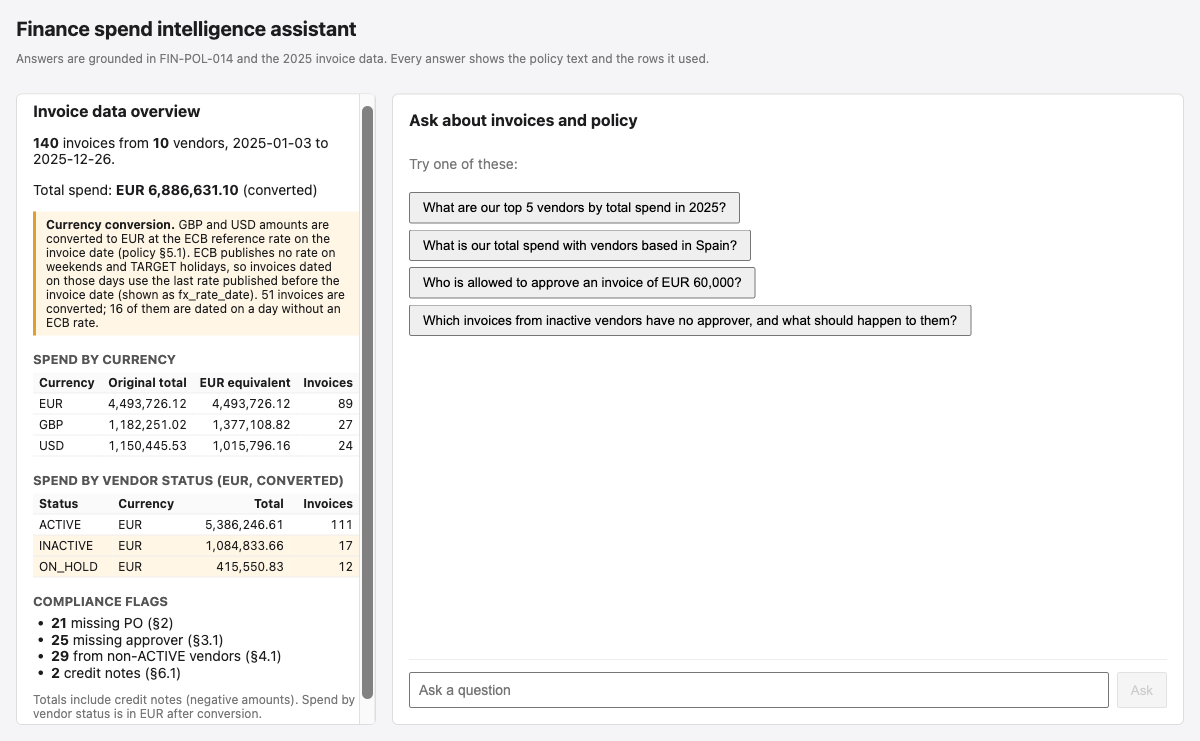
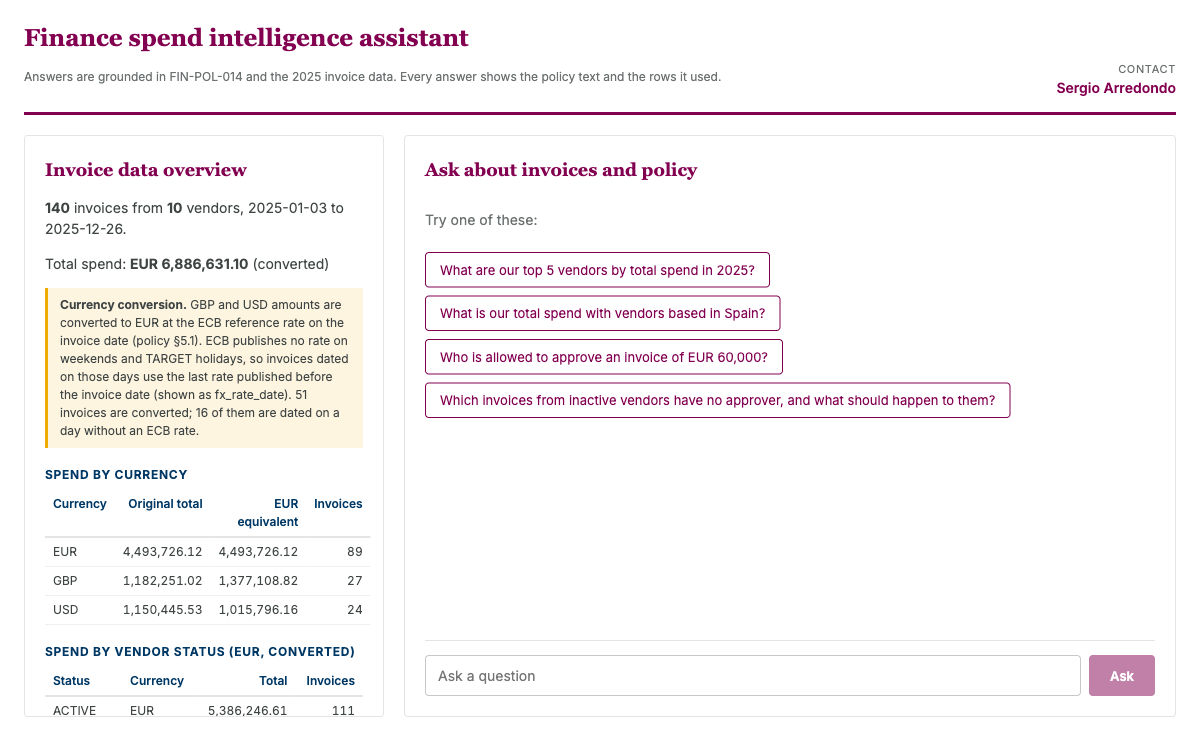
Switch default model to Claude Sonnet 5.5 and apply AstraZeneca styling
- Default BEDROCK_MODEL_ID is now us.anthropic.claude-sonnet-5-5 (llm.py, .env.example, README, CLAUDE.md)
- Frontend uses the Mulberry palette, Inter body text and Lexia headings on a white layout
- Header lists Sergio Arredondo as the contact
- Refresh the README screenshot
- README time section includes 30 minutes reviewing the raw data and policy

Changed region(s): [[0.0, 0.031, 0.9867, 0.9933], [0.8942, 0.8691, 0.9867, 0.9622]]

diff --git a/frontend/src/index.css b/frontend/src/index.css
@@ -1,54 +1,80 @@
-* { box-sizing: border-box; }
-body { margin: 0; font-family: system-ui, sans-serif; font-size: 14px; color: #1d1d1f; background: #f5f5f7; }
-h1 { font-size: 20px; margin: 0 0 4px; }
-h2 { font-size: 16px; margin: 0 0 12px; }
-h3 { font-size: 13px; margin: 16px 0 6px; text-transform: uppercase; color: #555; }
-h4 { font-size: 12px; margin: 14px 0 6px; text-transform: uppercase; color: #555; }
+:root {
+  --mulberry: #830051;
+  --mulberry-dark: #5f003b;
+  --mulberry-tint: #f7ebf2;
+  --navy: #003865;
+  --graphite: #3f4444;
+  --lime: #c4d600;
+  --gold: #f0ab00;
+  --gold-tint: #fdf5e0;
+  --light-blue-tint: #e9f8fa;
+  --error: #b3261e;
+  --border: #e4e4e4;
+  --rule: #f0f0f0;
+  --font-body: 'Inter', Arial, sans-serif;
+  --font-heading: 'Lexia', Georgia, serif;
+}
 
-.layout { display: grid; grid-template-columns: 360px 1fr; grid-template-rows: auto 1fr; gap: 16px; padding: 16px; height: 100vh; }
-.layout header { grid-column: 1 / -1; }
-.panel { background: white; border: 1px solid #ddd; border-radius: 6px; padding: 16px; overflow: auto; }
+* { box-sizing: border-box; }
+body { margin: 0; font-family: var(--font-body); font-size: 14px; line-height: 1.5; color: var(--graphite); background: #fff; }
+h1, h2 { font-family: var(--font-heading); color: var(--mulberry); font-weight: 700; }
+h1 { font-size: 24px; margin: 0 0 4px; }
+h2 { font-size: 18px; margin: 0 0 12px; }
+h3 { font-size: 12px; margin: 18px 0 6px; text-transform: uppercase; letter-spacing: 0.06em; color: var(--navy); }
+h4 { font-size: 11px; margin: 14px 0 6px; text-transform: uppercase; letter-spacing: 0.06em; color: var(--navy); }
+
+.layout { display: grid; grid-template-columns: 360px 1fr; grid-template-rows: auto 1fr; gap: 20px; padding: 0 24px 24px; height: 100vh; }
+.layout header { grid-column: 1 / -1; display: flex; justify-content: space-between; align-items: flex-end; gap: 24px; padding: 20px 0 14px; border-bottom: 3px solid var(--mulberry); }
+.contact { text-align: right; font-size: 12px; white-space: nowrap; }
+.contact-label { display: block; text-transform: uppercase; letter-spacing: 0.06em; font-size: 11px; color: #6b7070; }
+.contact-name { font-weight: 600; color: var(--mulberry); font-size: 14px; }
+.panel { background: #fff; border: 1px solid var(--border); border-radius: 4px; padding: 20px; overflow: auto; }
 .chat { display: flex; flex-direction: column; overflow: hidden; }
 .messages { flex: 1; overflow: auto; }
 
-.muted { color: #777; }
+.muted { color: #6b7070; }
 .small { font-size: 12px; }
-.error { color: #a00; }
+.error { color: var(--error); }
 table { border-collapse: collapse; width: 100%; font-size: 12px; }
-th, td { text-align: left; padding: 3px 6px; border-bottom: 1px solid #eee; vertical-align: top; }
-th { background: #fafafa; }
+th, td { text-align: left; padding: 5px 8px; border-bottom: 1px solid var(--rule); vertical-align: top; }
+th { background: #fff; color: var(--navy); font-weight: 600; border-bottom: 2px solid var(--border); }
 .num { text-align: right; font-variant-numeric: tabular-nums; }
-tr.flag td { background: #fff6e5; }
-tr.credit td { background: #eef5ff; }
-.disclaimer { background: #fff6e5; border-left: 3px solid #e0a030; padding: 6px 10px; margin: 8px 0; font-size: 12px; }
-td.prior-rate { background: #fff6e5; }
-.missing { color: #a00; }
+tr.flag td { background: var(--gold-tint); }
+tr.credit td { background: var(--light-blue-tint); }
+.disclaimer { background: var(--gold-tint); border-left: 3px solid var(--gold); padding: 8px 12px; margin: 8px 0; font-size: 12px; }
+td.prior-rate { background: var(--gold-tint); }
+.missing { color: var(--error); }
 .flags { padding-left: 18px; margin: 0; }
 .scroll { overflow-x: auto; }
 
-.examples { display: flex; flex-direction: column; gap: 6px; align-items: flex-start; }
+.examples { display: flex; flex-direction: column; gap: 8px; align-items: flex-start; }
 .example { text-align: left; }
-.message { margin-bottom: 20px; }
-.question { font-weight: 600; background: #eef; padding: 8px 10px; border-radius: 6px; }
-.answer { padding: 8px 10px; border-left: 3px solid #4a7; margin-top: 6px; }
-.answer.declined { border-left-color: #c90; }
-.answer.error { border-left-color: #a00; }
+.message { margin-bottom: 24px; }
+.question { font-weight: 600; color: var(--mulberry-dark); background: var(--mulberry-tint); padding: 10px 12px; border-radius: 4px; }
+.answer { padding: 10px 12px; border-left: 3px solid var(--mulberry); margin-top: 8px; }
+.answer.declined { border-left-color: var(--gold); }
+.answer.error { border-left-color: var(--error); }
 .answer-text { white-space: pre-wrap; margin: 0 0 8px; }
-.status-tag { font-weight: 600; color: #a60; margin-bottom: 4px; }
+.status-tag { font-weight: 600; color: #9a6b00; margin-bottom: 4px; }
 
-.evidence { border-top: 1px dashed #ccc; padding-top: 6px; }
+.evidence { border-top: 1px solid var(--border); padding-top: 8px; }
 .badges { display: flex; gap: 6px; flex-wrap: wrap; }
-.badge { font-size: 11px; background: #eee; border-radius: 10px; padding: 2px 8px; }
-.warnings { background: #fff6e5; margin: 8px 0; padding: 6px 6px 6px 22px; font-size: 12px; }
-blockquote { margin: 0 0 8px; padding: 6px 10px; background: #f8f8f8; border-left: 3px solid #88a; }
+.badge { font-size: 11px; color: var(--navy); background: #fff; border: 1px solid var(--border); border-radius: 12px; padding: 2px 10px; }
+.warnings { background: var(--gold-tint); margin: 8px 0; padding: 6px 6px 6px 22px; font-size: 12px; }
+blockquote { margin: 0 0 8px; padding: 8px 12px; background: #fafafa; border-left: 3px solid var(--navy); }
 blockquote pre { margin: 0; white-space: pre-wrap; font-family: inherit; font-size: 12px; }
-.cite { font-size: 11px; font-weight: 600; color: #557; }
+.cite { font-size: 11px; font-weight: 600; color: var(--navy); }
 .data-block { margin-bottom: 12px; }
 .query { display: flex; gap: 6px; flex-wrap: wrap; }
-.query code { background: #f0f0f0; padding: 2px 6px; border-radius: 3px; font-size: 11px; }
-.trunc { color: #a60; }
+.query code { background: #f4f4f4; color: var(--graphite); padding: 2px 6px; border-radius: 3px; font-size: 11px; }
+.trunc { color: #9a6b00; }
 
-.ask-form { display: flex; gap: 8px; padding-top: 12px; border-top: 1px solid #eee; }
-.ask-form input { flex: 1; padding: 8px; font-size: 14px; }
-button { padding: 6px 12px; cursor: pointer; }
-button:disabled { cursor: not-allowed; opacity: 0.6; }
+.ask-form { display: flex; gap: 8px; padding-top: 14px; border-top: 1px solid var(--border); }
+.ask-form input { flex: 1; padding: 9px 12px; font: inherit; font-size: 14px; color: var(--graphite); border: 1px solid #c8c8c8; border-radius: 4px; }
+.ask-form input:focus { outline: none; border-color: var(--mulberry); box-shadow: 0 0 0 3px var(--mulberry-tint); }
+button { font: inherit; font-size: 13px; padding: 7px 14px; cursor: pointer; color: var(--mulberry); background: #fff; border: 1px solid var(--mulberry); border-radius: 4px; }
+button:hover:not(:disabled) { background: var(--mulberry-tint); }
+button[type='submit'] { color: #fff; background: var(--mulberry); font-weight: 600; padding: 7px 20px; }
+button[type='submit']:hover:not(:disabled) { background: var(--mulberry-dark); }
+button:disabled { cursor: not-allowed; opacity: 0.5; }
+button:focus-visible { outline: 2px solid var(--navy); outline-offset: 2px; }

diff --git a/frontend/src/App.tsx b/frontend/src/App.tsx
@@ -5,10 +5,16 @@ export default function App() {
   return (
     <main className="layout">
       <header>
-        <h1>Finance spend intelligence assistant</h1>
-        <p className="muted small">
-          Answers are grounded in FIN-POL-014 and the 2025 invoice data. Every answer shows the policy text and the rows it used.
-        </p>
+        <div>
+          <h1>Finance spend intelligence assistant</h1>
+          <p className="muted small">
+            Answers are grounded in FIN-POL-014 and the 2025 invoice data. Every answer shows the policy text and the rows it used.
+          </p>
+        </div>
+        <div className="contact">
+          <span className="contact-label">Contact</span>
+          <span className="contact-name">Sergio Arredondo</span>
+        </div>
       </header>
       <SummaryPanel />
       <ChatPanel />

diff --git a/frontend/index.html b/frontend/index.html
@@ -4,6 +4,9 @@
     <meta charset="UTF-8" />
     <link rel="icon" type="image/svg+xml" href="/favicon.svg" />
     <meta name="viewport" content="width=device-width, initial-scale=1.0" />
+    <link rel="preconnect" href="https://fonts.googleapis.com" />
+    <link rel="preconnect" href="https://fonts.gstatic.com" crossorigin />
+    <link href="https://fonts.googleapis.com/css2?family=Inter:wght@400;600;700&display=swap" rel="stylesheet" />
     <title>Spend intelligence assistant</title>
   </head>
   <body>

diff --git a/backend/app/llm.py b/backend/app/llm.py
@@ -36,7 +36,7 @@ class FinalAnswer(BaseModel):
 
 
 def model_id() -> str:
-    return os.environ.get("BEDROCK_MODEL_ID", "us.anthropic.claude-opus-5-5")
+    return os.environ.get("BEDROCK_MODEL_ID", "us.anthropic.claude-sonnet-5-5")
 
 
 def llm_label() -> str:
@@ -106,7 +106,7 @@ def _ask_bedrock(question: str) -> AskResponse:
 
     for _ in range(max_iterations):
         try:
-            # No temperature: Claude Opus 5.5 rejects sampling parameters. Determinism comes from fixed tools and the output schema.
+            # No temperature: Claude Sonnet 5.5 rejects sampling parameters. Determinism comes from fixed tools and the output schema.
             resp = client.messages.create(
                 model=model_id(),
                 max_tokens=16000,

diff --git a/README.md b/README.md
@@ -2,7 +2,7 @@
 
 A small web app where a finance analyst asks questions about 2025 vendor invoices and the procurement policy (FIN-POL-014), and every answer shows what it is based on: the exact policy text, the invoice rows, and the query that produced them.
 
-FastAPI backend, React (Vite + TypeScript) frontend, Claude Opus 5.5 on AWS Bedrock.
+FastAPI backend, React (Vite + TypeScript) frontend, Claude Sonnet 5.5 on AWS Bedrock.
 
 ![The app on startup: invoice data overview with the EUR-converted total, the ECB conversion disclaimer and per-currency totals on the left, example questions on the right](infographics/fx_summary.png)
 
@@ -49,7 +49,7 @@ uv run pytest ../eval -v  # 10-question eval, one test per question (makes real 
 
 ### LLM path
 
-**Claude Opus 5.5 on AWS Bedrock** (`us.anthropic.claude-opus-5-5`), through the Anthropic Python SDK's `AnthropicBedrock` client. `.env.example` documents both auth options: a Bedrock API key (`AWS_BEARER_TOKEN_BEDROCK`), which is what I used through a corporate Bedrock gateway (`ANTHROPIC_BEDROCK_BASE_URL`), or standard AWS credentials via boto3.
+**Claude Sonnet 5.5 on AWS Bedrock** (`us.anthropic.claude-sonnet-5-5`), through the Anthropic Python SDK's `AnthropicBedrock` client. `.env.example` documents both auth options: a Bedrock API key (`AWS_BEARER_TOKEN_BEDROCK`), which is what I used through a corporate Bedrock gateway (`ANTHROPIC_BEDROCK_BASE_URL`), or standard AWS credentials via boto3.
 
 ## How it works
 
@@ -86,7 +86,7 @@ Browser --POST /ask--> FastAPI --> Claude (policy text in system prompt)
   "policy_evidence": [{"section": "4.1", "text": "exact text from procurement_policy.md"}],
   "data_evidence": [{"tool": "query_invoices", "args": {}, "total_matched": 4, "truncated": false, "rows": [], "groups": null}],
   "warnings": ["3 GBP/USD invoice(s) converted to EUR at the ECB reference rate on the invoice date (§5.1)."],
-  "llm": "bedrock:us.anthropic.claude-opus-5-5"
+  "llm": "bedrock:us.anthropic.claude-sonnet-5-5"
 }
 ```
 
@@ -116,6 +116,8 @@ Probably no pandas for the data, SQL queries instead. The tools stay fixed; they
 - **Audit trail (§8.2).** Persist every question, user, model ID, prompt version, tool call with arguments, returned invoice IDs and the final answer. Today this only lives in the logs. The evidence is already structured, so it's one write per request.
 
 ## Time taken and next steps
+
+Before any AI session, I spent about 30 minutes looking at the raw data and reading the procurement policy myself, so I understood what I was dealing with.
 
 Planning took about 40 minutes across two sessions (timestamps in `ai_harness/planning_conversation.md`). The build session, from scaffold to eval, README and repo setup, took about 45 minutes ([`ai_harness/build_session.md`](ai_harness/build_session.md)). Planning ran on Claude Sonnet 5.5 and the build on Claude Opus 5.5.
 

diff --git a/CLAUDE.md b/CLAUDE.md
@@ -28,7 +28,7 @@ Take-home prototype: finance spend assistant. FastAPI backend (`backend/`), Reac
 
 ## LLM
 
-Claude on AWS Bedrock via `anthropic.AnthropicBedrock`. Config in `.env` (see `.env.example`). Claude Opus 5.5 rejects `temperature` and forced `tool_choice`; use `output_config.effort` and the JSON output schema instead.
+Claude on AWS Bedrock via `anthropic.AnthropicBedrock`. Config in `.env` (see `.env.example`). Claude Sonnet 5.5 rejects `temperature` and forced `tool_choice`; use `output_config.effort` and the JSON output schema instead.
 
 ## Scope
 
